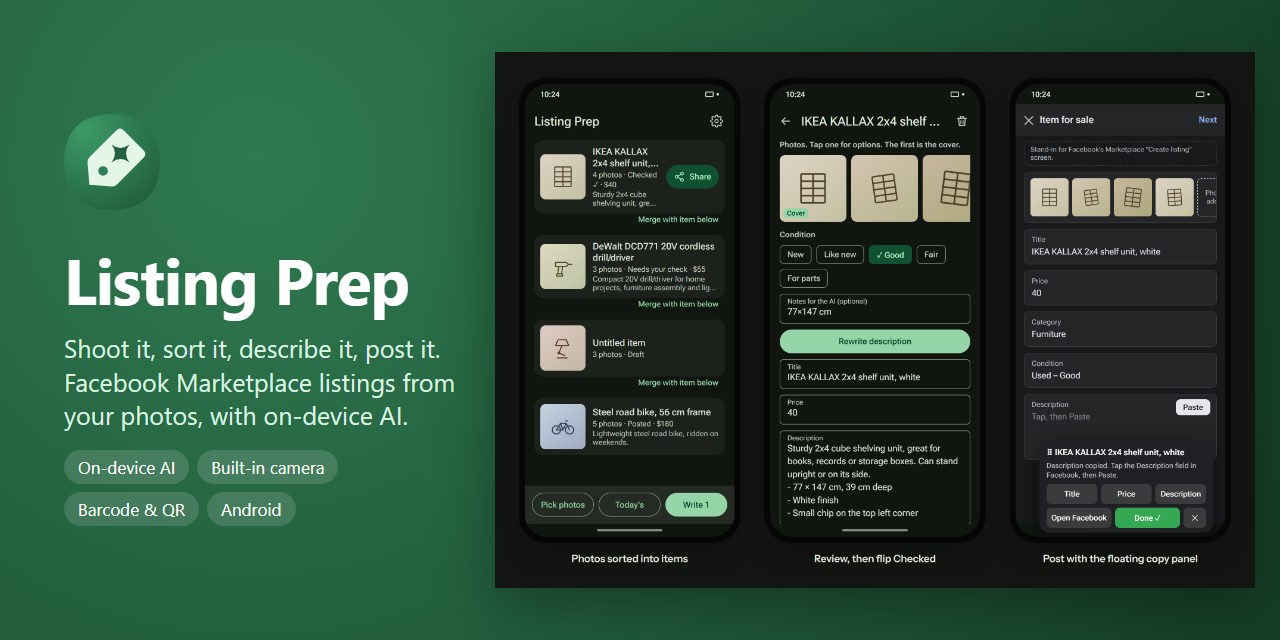
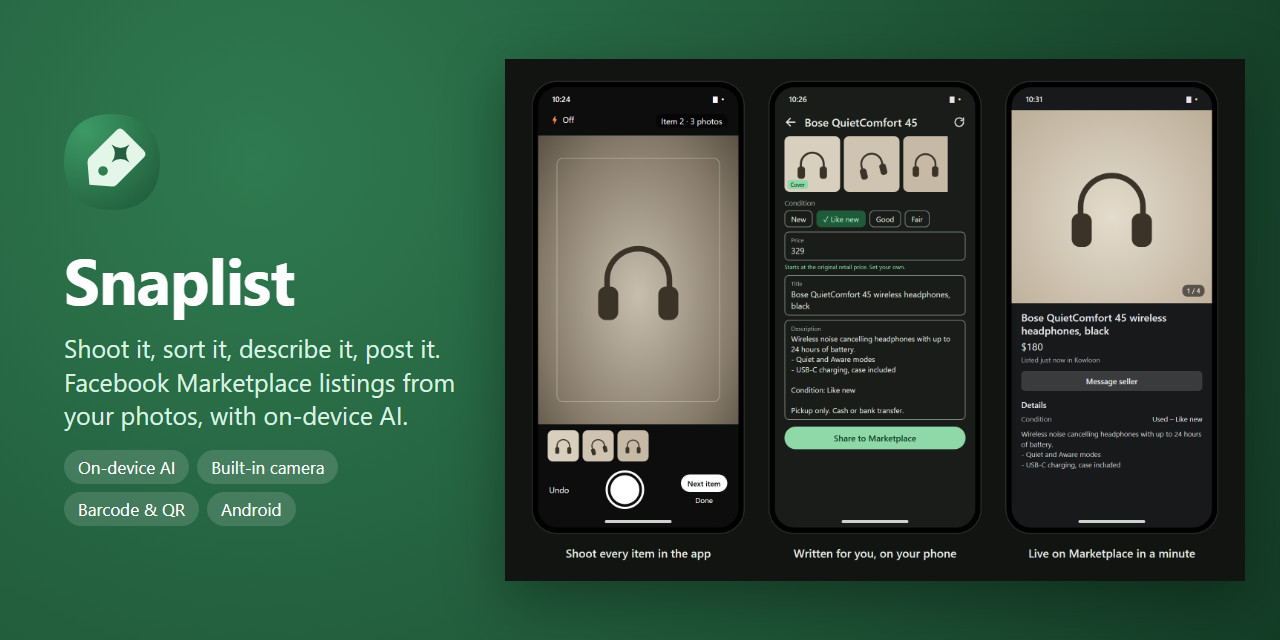
Rename the app to Snaplist
The app's name on the phone, its screens, the README, the release titles
and the repo (now JackLongman12/snaplist) say Snaplist. Internal names stay,
so updates keep working: the package ID, the signing key, the APK file
names (ListingPrep-N.apk) and the Pictures/ListingPrep album. Old builds
still find updates through GitHub's redirect from the old repo address.

Crash reports now start with "Snaplist build"; the relay accepts both the
old and the new header and points at the renamed repo.

README images no longer show the removed price search.

diff --git a/app/src/main/java/com/listingprep/ui/AppViewModel.kt b/app/src/main/java/com/listingprep/ui/AppViewModel.kt
@@ -172,7 +172,7 @@ class AppViewModel(app: Application) : AndroidViewModel(app) {
                     when (CrashLog.send(report)) {
                         CrashLog.Sent.YES, CrashLog.Sent.REJECTED -> {
                             CrashLog.clear(ctx)
-                            showError("Listing Prep closed unexpectedly last time. An anonymous crash report was sent so it can be fixed.")
+                            showError("Snaplist closed unexpectedly last time. An anonymous crash report was sent so it can be fixed.")
                         }
                         CrashLog.Sent.NO_RETRY_LATER -> Unit
                     }
@@ -312,7 +312,7 @@ class AppViewModel(app: Application) : AndroidViewModel(app) {
     fun photoCount(ids: List<String>) =
         _state.value.items.filter { it.id in ids }.sumOf { item -> item.photos.count { it.uri.startsWith("file:") } }
 
-    /** Android's own "Allow Listing Prep to delete these photos?" dialog, or null if it can't be built. */
+    /** Android's own "Allow Snaplist to delete these photos?" dialog, or null if it can't be built. */
     fun galleryDeleteRequest(uris: List<Uri>): IntentSender? =
         if (uris.isEmpty()) null
         else runCatching { MediaStore.createDeleteRequest(ctx.contentResolver, uris).intentSender }.getOrNull()
@@ -1177,7 +1177,7 @@ class AppViewModel(app: Application) : AndroidViewModel(app) {
         if (seen <= 0L || installed <= seen) return // first install, or nothing new
         val notes = store.pendingNotes?.takeIf { it.first.toLong() == installed }?.second.orEmpty()
         store.pendingNotes = null
-        _state.update { it.copy(justUpdated = UpdateUi(installed.toInt(), "Listing Prep is now on build $installed.", notes = notes)) }
+        _state.update { it.copy(justUpdated = UpdateUi(installed.toInt(), "Snaplist is now on build $installed.", notes = notes)) }
     }
 
     fun dismissCrashReport() {

diff --git a/app/src/main/java/com/listingprep/ui/ListScreen.kt b/app/src/main/java/com/listingprep/ui/ListScreen.kt
@@ -136,7 +136,7 @@ internal fun ItemListScreen(
                     TextButton(onClick = { selected = shown.map { it.id }.toSet() }) { Text("Select all") }
                 },
             ) else TopAppBar(
-                title = { Text("Listing Prep") },
+                title = { Text("Snaplist") },
                 actions = {
                     // A new build: always visible, however far the list is scrolled.
                     state.update?.let { u ->
@@ -416,7 +416,7 @@ internal fun UpdateCard(update: UpdateUi, vm: AppViewModel) {
                 update.offerOnly -> Button(onClick = { vm.checkForUpdate() }) { Text("Download & see what's new") }
                 update.ready && canInstall -> Button(onClick = vm::openUpdatePopup) { Text("See what's new & install") }
                 update.ready -> {
-                    Text("One-time step: allow Listing Prep to install its own updates.", style = MaterialTheme.typography.bodySmall)
+                    Text("One-time step: allow Snaplist to install its own updates.", style = MaterialTheme.typography.bodySmall)
                     OutlinedButton(onClick = {
                         context.startActivity(
                             android.content.Intent(

diff --git a/app/src/main/java/com/listingprep/ui/Screens.kt b/app/src/main/java/com/listingprep/ui/Screens.kt
@@ -166,7 +166,7 @@ fun App(
     state.crashReport?.let { report ->
         AlertDialog(
             onDismissRequest = vm::dismissCrashReport,
-            title = { Text("Listing Prep closed unexpectedly") },
+            title = { Text("Snaplist closed unexpectedly") },
             text = {
                 Column(verticalArrangement = Arrangement.spacedBy(8.dp)) {
                     Text("Sorry about that. Copy the crash report and send it to the developer so it can be fixed. It only has the app build, Android version, phone model, the day, and which lines of code failed: no photos, listing text, error messages or anything about you.")
@@ -238,7 +238,7 @@ internal fun UpdatePopup(state: UiState, vm: AppViewModel) {
                     LinearProgressIndicator(modifier = Modifier.fillMaxWidth())
                 }
                 if (u?.ready == true && !vm.canInstallUpdates()) {
-                    Text("One-time step: allow Listing Prep to install its own updates.", style = MaterialTheme.typography.bodySmall)
+                    Text("One-time step: allow Snaplist to install its own updates.", style = MaterialTheme.typography.bodySmall)
                 }
             }
         },

diff --git a/app/src/main/java/com/listingprep/CrashLog.kt b/app/src/main/java/com/listingprep/CrashLog.kt
@@ -35,7 +35,7 @@ object CrashLog {
     fun report(context: Context, error: Throwable): String {
         val build = runCatching { context.packageManager.getPackageInfo(context.packageName, 0).longVersionCode }.getOrDefault(0L)
         return buildString {
-            appendLine("Listing Prep build $build, Android ${Build.VERSION.RELEASE} (SDK ${Build.VERSION.SDK_INT}), ${Build.MODEL}")
+            appendLine("Snaplist build $build, Android ${Build.VERSION.RELEASE} (SDK ${Build.VERSION.SDK_INT}), ${Build.MODEL}")
             appendLine("Crash on ${SimpleDateFormat("yyyy-MM-dd", Locale.US).format(Date())}")
             append(trace(error))
         }.take(8_000)
@@ -73,7 +73,7 @@ object CrashLog {
      * Blank = automatic sending is off in this build.
      */
     const val RELAY = "https://lp-crash-relay.lp-reports.workers.dev/crash"
-    const val ISSUES_PAGE = "https://github.com/JackLongman12/marketplace-listing-prep/issues?q=label%3Acrash"
+    const val ISSUES_PAGE = "https://github.com/JackLongman12/snaplist/issues?q=label%3Acrash"
 
     val canSend get() = RELAY.isNotBlank()
 

diff --git a/app/src/main/java/com/listingprep/update/Updater.kt b/app/src/main/java/com/listingprep/update/Updater.kt
@@ -29,7 +29,7 @@ import javax.net.ssl.HttpsURLConnection
  *   even asked (Android would refuse it too).
  */
 object Updater {
-    private const val REPO = "JackLongman12/marketplace-listing-prep"
+    private const val REPO = "JackLongman12/snaplist"
     private const val LATEST = "https://api.github.com/repos/$REPO/releases/latest"
     private val HOSTS = setOf("api.github.com", "github.com", "objects.githubusercontent.com", "release-assets.githubusercontent.com")
     private const val MAX_APK = 250L * 1024 * 1024
@@ -216,7 +216,7 @@ object Updater {
                 connectTimeout = 15_000
                 readTimeout = 30_000
                 setRequestProperty("Accept", if (url.host == "api.github.com") "application/vnd.github+json" else "application/octet-stream")
-                setRequestProperty("User-Agent", "ListingPrep-updater")
+                setRequestProperty("User-Agent", "Snaplist-updater")
             }
             when (val code = conn.responseCode) {
                 200 -> return Opened(conn, conn.inputStream)

diff --git a/app/src/main/java/com/listingprep/ml/ModelDownloadService.kt b/app/src/main/java/com/listingprep/ml/ModelDownloadService.kt
@@ -66,7 +66,7 @@ class ModelDownloadService : Service() {
         if (job?.isActive == true) return START_NOT_STICKY
         val wifiOnly = intent?.getBooleanExtra(EXTRA_WIFI_ONLY, true) ?: true
         wakeLock = getSystemService(PowerManager::class.java)
-            .newWakeLock(PowerManager.PARTIAL_WAKE_LOCK, "ListingPrep:model")
+            .newWakeLock(PowerManager.PARTIAL_WAKE_LOCK, "Snaplist:model")
             .apply { acquire(6 * 60 * 60 * 1000L) }
         job = scope.launch {
             val end = try {
@@ -176,7 +176,7 @@ class ModelDownloadService : Service() {
         )
         val n = Notification.Builder(this, CHANNEL)
             .setSmallIcon(R.drawable.ic_stat_listing)
-            .setContentTitle("AI model for Listing Prep")
+            .setContentTitle("AI model for Snaplist")
             .setContentText(text)
             .setOngoing(true)
             .setOnlyAlertOnce(true)

diff --git a/relay/src/index.js b/relay/src/index.js
@@ -1,5 +1,5 @@
 /**
- * Listing Prep crash relay (Cloudflare Worker).
+ * Snaplist crash relay (Cloudflare Worker).
  *
  * The app POSTs an anonymous crash report to /crash; this turns it into a public GitHub issue
  * (or a "seen again" comment on the existing one). The GitHub key lives only here, as an
@@ -21,7 +21,7 @@
 const MAX_BYTES = 8000;
 const MAX_REPEAT_COMMENTS = 20;
 
-const HEADER = /^Listing Prep build \d{1,7}, Android [0-9A-Za-z.]{1,12} \(SDK \d{1,3}\), [0-9A-Za-z _.()+\/-]{1,40}$/;
+const HEADER = /^(?:Listing Prep|Snaplist) build \d{1,7}, Android [0-9A-Za-z.]{1,12} \(SDK \d{1,3}\), [0-9A-Za-z _.()+\/-]{1,40}$/;
 const DAY = /^Crash on \d{4}-\d{2}-\d{2}$/;
 const CLASS = /^(Caused by )?[A-Za-z_$][\w$.]{0,200}$/;
 const FRAME = /^  at [\w$.<>\-]{1,300}\([\w$.?\-]{1,120}:-?\d{1,7}\)$/;

diff --git a/app/src/main/java/com/listingprep/ui/MarketplaceSharer.kt b/app/src/main/java/com/listingprep/ui/MarketplaceSharer.kt
@@ -41,9 +41,9 @@ fun rememberMarketplaceSharer(vm: AppViewModel, settings: Settings): (Item) -> U
             title = { Text("Allow the copy panel") },
             text = {
                 Text(
-                    "While you post, Listing Prep shows a small floating panel over Facebook with " +
+                    "While you post, Snaplist shows a small floating panel over Facebook with " +
                         "Copy title / price / description buttons. Turn on \"Display over other apps\" " +
-                        "for Listing Prep, come back, and tap Share again."
+                        "for Snaplist, come back, and tap Share again."
                 )
             },
             confirmButton = {

diff --git a/app/src/main/java/com/listingprep/update/UpdateReceiver.kt b/app/src/main/java/com/listingprep/update/UpdateReceiver.kt
@@ -57,7 +57,7 @@ class UpdateReceiver : BroadcastReceiver() {
             5,
             Notification.Builder(context, "updates")
                 .setSmallIcon(R.drawable.ic_stat_listing)
-                .setContentTitle("Listing Prep update ready")
+                .setContentTitle("Snaplist update ready")
                 .setContentText("Tap to finish installing the new build.")
                 .setContentIntent(pi)
                 .setAutoCancel(true)

diff --git a/app/src/main/java/com/listingprep/ml/ProductLookup.kt b/app/src/main/java/com/listingprep/ml/ProductLookup.kt
@@ -115,7 +115,7 @@ object ProductLookup {
                 connectTimeout = 8_000
                 readTimeout = 8_000
                 setRequestProperty("Accept", "application/json")
-                setRequestProperty("User-Agent", "ListingPrep/0.1 (personal Android app)")
+                setRequestProperty("User-Agent", "Snaplist/1.0 (Android app)")
             }
             try {
                 when (val code = conn.responseCode) {

diff --git a/app/src/main/java/com/listingprep/update/UpdateState.kt b/app/src/main/java/com/listingprep/update/UpdateState.kt
@@ -4,7 +4,7 @@ import kotlinx.coroutines.flow.MutableStateFlow
 
 /** Shared between the activity, the install receiver and the view model. */
 object UpdateState {
-    /** True while Listing Prep is on screen; installs then wait until you leave the app. */
+    /** True while Snaplist is on screen; installs then wait until you leave the app. */
     @Volatile var appVisible = false
 
     val error = MutableStateFlow<String?>(null)

diff --git a/app/src/main/java/com/listingprep/ml/WritingService.kt b/app/src/main/java/com/listingprep/ml/WritingService.kt
@@ -57,7 +57,7 @@ class WritingService : Service() {
             )
             return Notification.Builder(context, CHANNEL)
                 .setSmallIcon(R.drawable.ic_stat_listing)
-                .setContentTitle("Listing Prep")
+                .setContentTitle("Snaplist")
                 .setContentText(text)
                 .setOngoing(ongoing)
                 .setAutoCancel(!ongoing)
